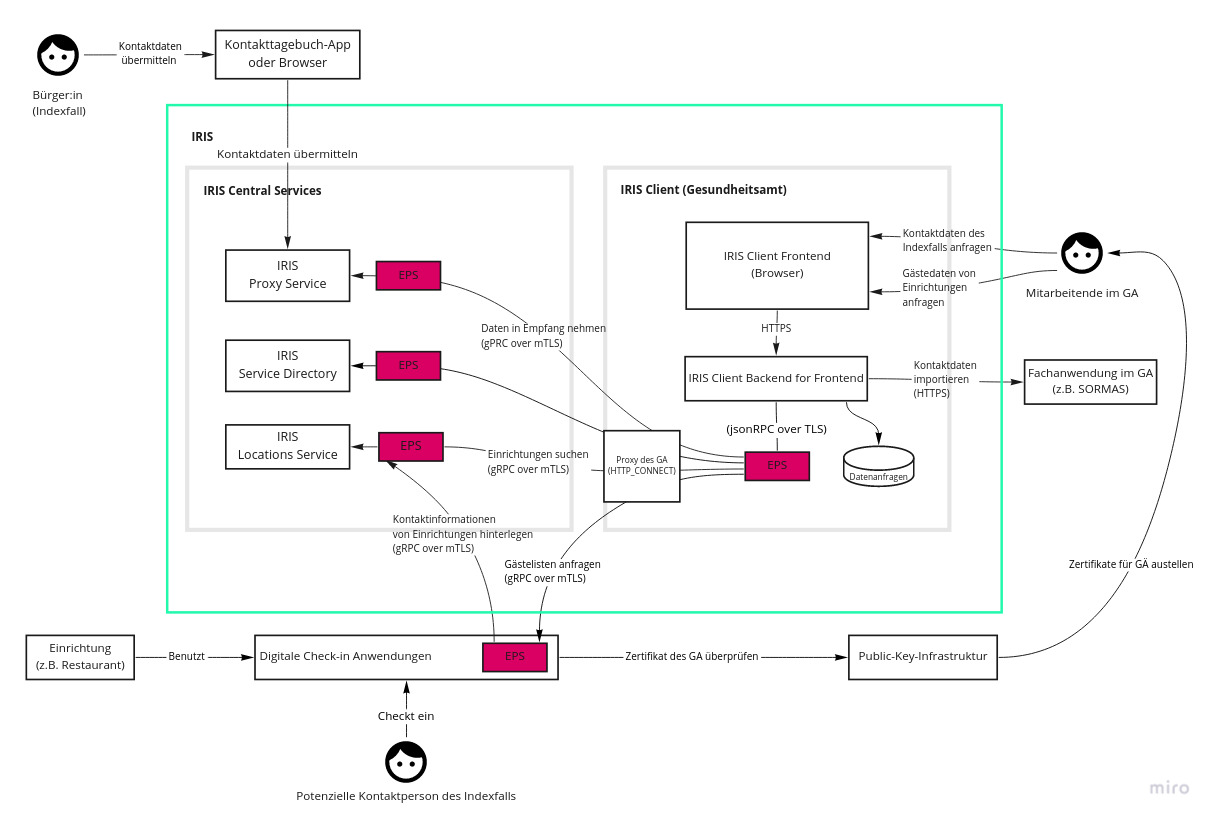
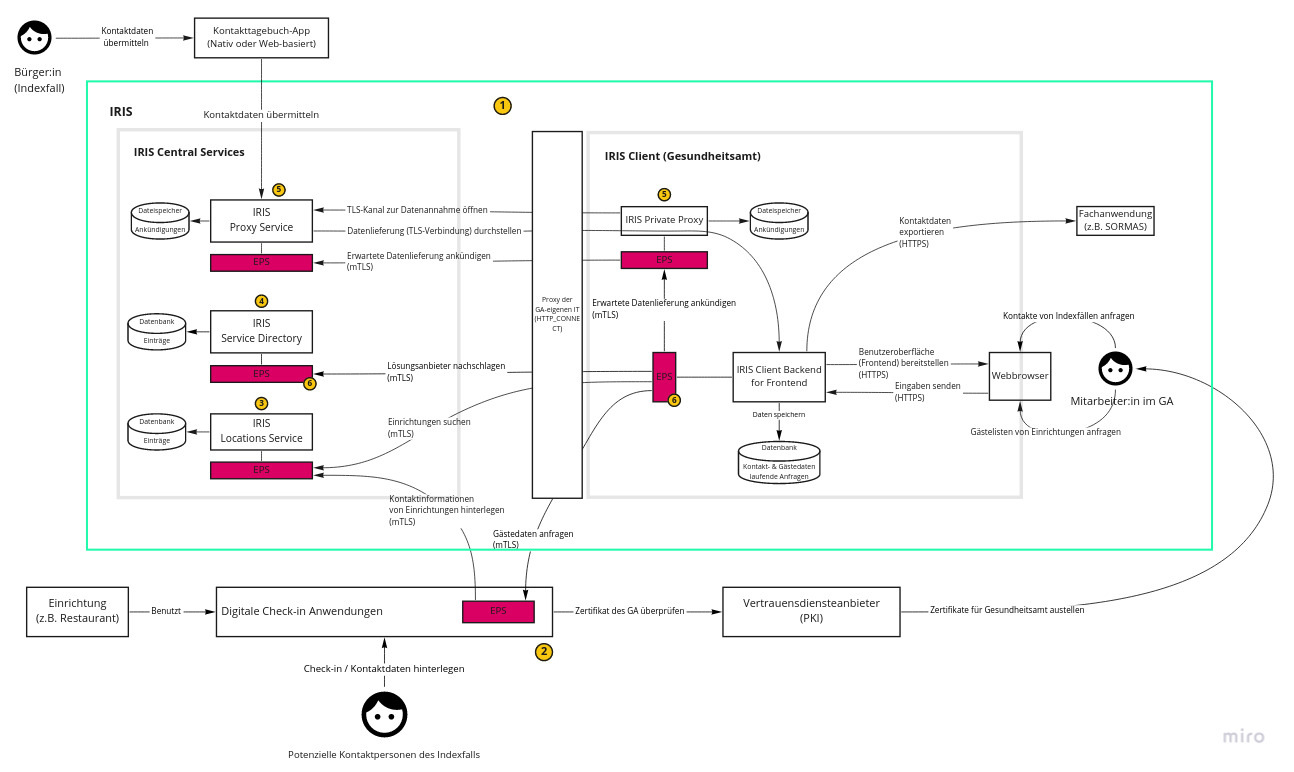
Update architecture overview image

diff --git a/Sicherheitskonzept.md b/Sicherheitskonzept.md
@@ -23,7 +23,7 @@ Eine Kenntlichmachung diesbezüglich ist aktuell nicht vorgesehen.
 |Version|Datum|Erläuterung|
 |---|---|---|
 |v0.1|17.05.2021|Übermitteln an die HiSolutions AG im Zuge des Onboardings. <br><br>Die HiSolutions soll das bestehende Sicherheitskonzept gegenprüfen und bisher unbeachtete Gefährdungen und Risiken oder zu niedrig angesetzte Schutzmaßnahmen identifiziert.
-|v0.2| | Interne/Semi-interne Verwendung. |
+|v0.2| | Interne/Semi-interne Verwendung. Wurde nochmal als Update zu v0.1 an die HiSolutions übermittelt.|
 |v0.3| |
 |v1.0| tba| Version nach Einbeziehen des fachlichen Reviews der HiSolution. <br><br> Im fachlichen Review können möglicherweise bisher unbeachtete Gefährdungen und Risiken oder zu niedrig angesetzte Schutzmaßnahmen identifiziert werden. Im Anschluss an das Review wird es eine neue Version dieser Unterlage geben, die das Ergebnis und ggf. die Notwendigkeit zusätzlicher Absicherung dokumentieren wird. Das sollte die erste Version sein, die öffentlich kommuniziert wird.|
 
@@ -93,7 +93,7 @@ IRIS besteht aus
   Gesundheitsämter.
 * Einer Benutzerschnittstelle in den Gesundheitsämtern (Client), über die Mitarbeitende die erfassten Daten der
   Bürger:innen und Einrichtungen anfragen und abrufen können.
-* Einem Netzwerk von Endpoint-Servern (EPS), das den verschiedenen Akteueren bei IRIS eine sichere Kommunikation miteinander ermöglicht.
+* Einem verteilten Netzwerk von Endpoint-Servern (EPS), das den verschiedenen Akteuren bei IRIS eine sichere Kommunikation miteinander ermöglicht.
 
 IRIS tritt als Vermittler zwischen den Gesundheitsämtern und den verschiedenen digitalen Lösungen auf. 
 Es erfolgt insbesondere keine zentrale Speicherung der übermittelten Daten. 
@@ -106,9 +106,18 @@ Vor der Datenabfrage durch ein Gesundheitsamt liegen diese ausschließlich bei d
 *Schaubild der Akteure, Komponenten und typischen Use Cases von IRIS*
 ![Schaubild der Akteure, Komponenten und typischen Use Cases](./Resources/technical_documentation/architecture_and_use_case_overview.jpg)
 
+| Nummer | Erklärung |
+|---|---|
+|1| IRIS unterteilt sich in *IRIS Central Services* und den *IRIS Client*. Erstere werden zentral im Rechenzentrum der [AKDB](https://www.akdb.de/) gehostet und vom [IRIS Team](https://github.com/iris-connect) verwaltet. Der IRIS-Client wird mitsamt einer Dokumentation zum Download für die IT-Teams der Gesundheitsämter bereitgestellt. |
+|2| Ein weiterer wichtiger Teilnehmer:innen im IRIS-System sind die Kontaktdatenerfassungs-Apps. Diese stammen zum größten Teil aus der Initiative [Wir für Digitaliserung](https://www.wirfuerdigitalisierung.de/). |
+|3| Damit Einrichtungen dei dehnen eine digitale Kontaktdaten Erfassung im Einsatz ist vom Gesundheitsamt gefunden werden können, stellt IRIS ein zentrales Suchregister zur Verfügung. Die Daten im Suchregister werden von den Kontaktdatenerfassungs-Apps bereitgestellt. |
+|4| Das von der IRIS-Organisation verwaltete Service Directory enthält Einträge für alle teilnehmenden Akteure um IRIS-System. Zudem werden die Berechtigungen der Kommunikationsbeziehungen hier hinterlegt. |
+|5| Der IRIS Proxy Service ermöglicht es, Daten aktiv in ein Gesundheitsamt zu schicken. Dafür stellt der Proxy eine autorisierte Verbindung zwischen einer App und einer Proxy Komponente im GA her. Das Gesundheitsamt muss dafür keine eingehenden Verbindungen zulassen. |
+|6| Herzstück der Punkt-zu-Punkt Kommunikation ist das Endpunktserver-System. Dabei handelt es sich um eine Komponente, die dezentral bei allen Akteure des IRIS-Systems installiert wird. Die Kommunikation erfolgt über gRPC mittels mTLS. Die dafür notwendigen Zertifikate werden von der IRIS-Organisation ausgestellt. |
+
 Kommunikation innerhalb des EPS-Netzwerks findet immer in Form von gRPC über mTLS statt.
 Mit seinem zugehörigen Server spricht ein EPS immer pures JSON-RPC.
-Clients (Browser oder Apps), die von Bürger:innen oder Betreibenden einer Einrichtung genutzt werden sprechen mit den IRIS Public Services über HTTPS.
+Clients (Browser oder Apps), die von Bürger:innen oder Betreibenden einer Einrichtung genutzt werden sprechen mit den zentralen Diensten von IRIS über HTTPS.
 Das Frontend im GA (oder genauer gesagt der Browser, in dem es läuft) und das Backend des IRIS-Clients sprechen miteinander über HTTPS.
 
 ## Akteure (Actors)
@@ -310,8 +319,9 @@ Der Private Proxy schafft hier Abhilfe, indem er eine ausgehende TCP/IP-Standlei
 
 ### C.IRIS.CentralServices - Zentrale Komponenten und Dienste (IRIS-Gateway)
 Die zentralen IRIS-Komponenten und -Dienste werden vom externen IT-Dienstleister von IRIS gehostet.
-#### C.IRIS.EPS - Endpoint Server und Public Proxy
-Der EPS des IRIS-Gateways kommuniziert mit den EPS-Komponenten der Gesundheitsämter und Anbietern bzw. Clients. Er bietet einen TLS-Passthrough-Proxy-Dienst, der eingehende TLS-Verbindungen von öffentlichen Clients an einen internen Server in einem Gesundheitsamt weiterleiten kann, ohne die TLS-Verbindung zu terminieren.
+#### C.IRIS.PublicProxy - Endpoint Server und Public Proxy
+
+Der Public Proxy vermittelt Anbietern bzw. Clients. Er bietet einen TLS-Passthrough-Proxy-Dienst, der eingehende TLS-Verbindungen von öffentlichen Clients an einen internen Server in einem Gesundheitsamt weiterleiten kann, ohne die TLS-Verbindung zu terminieren.
 Der EPS beinhaltet einen öffentlichen Proxy, der im IRIS-Gateway steht. Dieser nimmt auf einem öffentlich zugänglichen TCP-Port eingehende TLS-Verbindungen entgegen, und auf einem anderen TCP-Port Verbindungen von privaten Proxy-Servern.
 
 #### C.IRIS.ServiceDir - Service Directory (Serviceverzeichnis)
@@ -326,7 +336,7 @@ Betreiber können das Service Directory auch verwenden, um festzustellen, ob sie
 Der EPS des Service Directory stellt einen JSON-RPC-Server bereit, der als Kommunikationsschnittstelle für alle Betreiber dient.
 Neue Datensätze können über dessen JSON-RPC-API an das Service Directory übermittelt und bestehende darüber abgerufen werden.
 
-##### Sicherheit
+##### Sicherheit (allgemein)
 ###### S.ServiceDir.DigitalSigning - Einsatz digitaler Signaturen
 Alle Änderungen im Service Directory werden **kryptografisch signiert**. Dazu besitzt jeder Akteur im EPS-System ein Paar ECDSA-Schlüssel und ein dazugehöriges Zertifikat.
 Das Service Directory akzeptiert Änderungen nur dann, wenn sie vom richtigen Akteur signiert worden sind.
@@ -390,7 +400,7 @@ Im Folgenden werden die Prozesse beschrieben, die es bei IRIS gibt. Die Übersic
 |P.HDRequestData | Stellen einer Anfrage zur Datenübermittlung | Ein GA fordert das Übersenden von Kontaktdaten bei Anbietern an. Dieser Prozess wird nur von GÄ initiiert.
 |P.RevokeCert | Widerruf von Zertifikaten | Die IRIS-Organisation widerruft eines ihrer Zertifikate.
 |P.OrgSecIncident | Behandeln sicherheitsrelevanter Ereignisse | Das Anstoßen eines geregelten sogenannten Incident Response-Prozesses. Dieser kann durch unterschiedliche Sicherheitsereignisse ausgelöst werden, z.B. durch das Melden einer kritischen Sicherheitslücke oder einen Angriff auf IRIS.
-
+|P.Deployment| Deployment eines neuen Software-Release| Das Herausgeben und Einspielen eines neuen Software-Release durch die IRIS-Organisation. 
 ### Beschreibung der Prozesse
 #### P.Onboarding.HD
 Im Rahmen des Onboardings werden organisatorische und technische Schritte durchgeführt, an deren Ende ein GA in der Lage ist, IRIS vollumfänglich zu benutzen.
